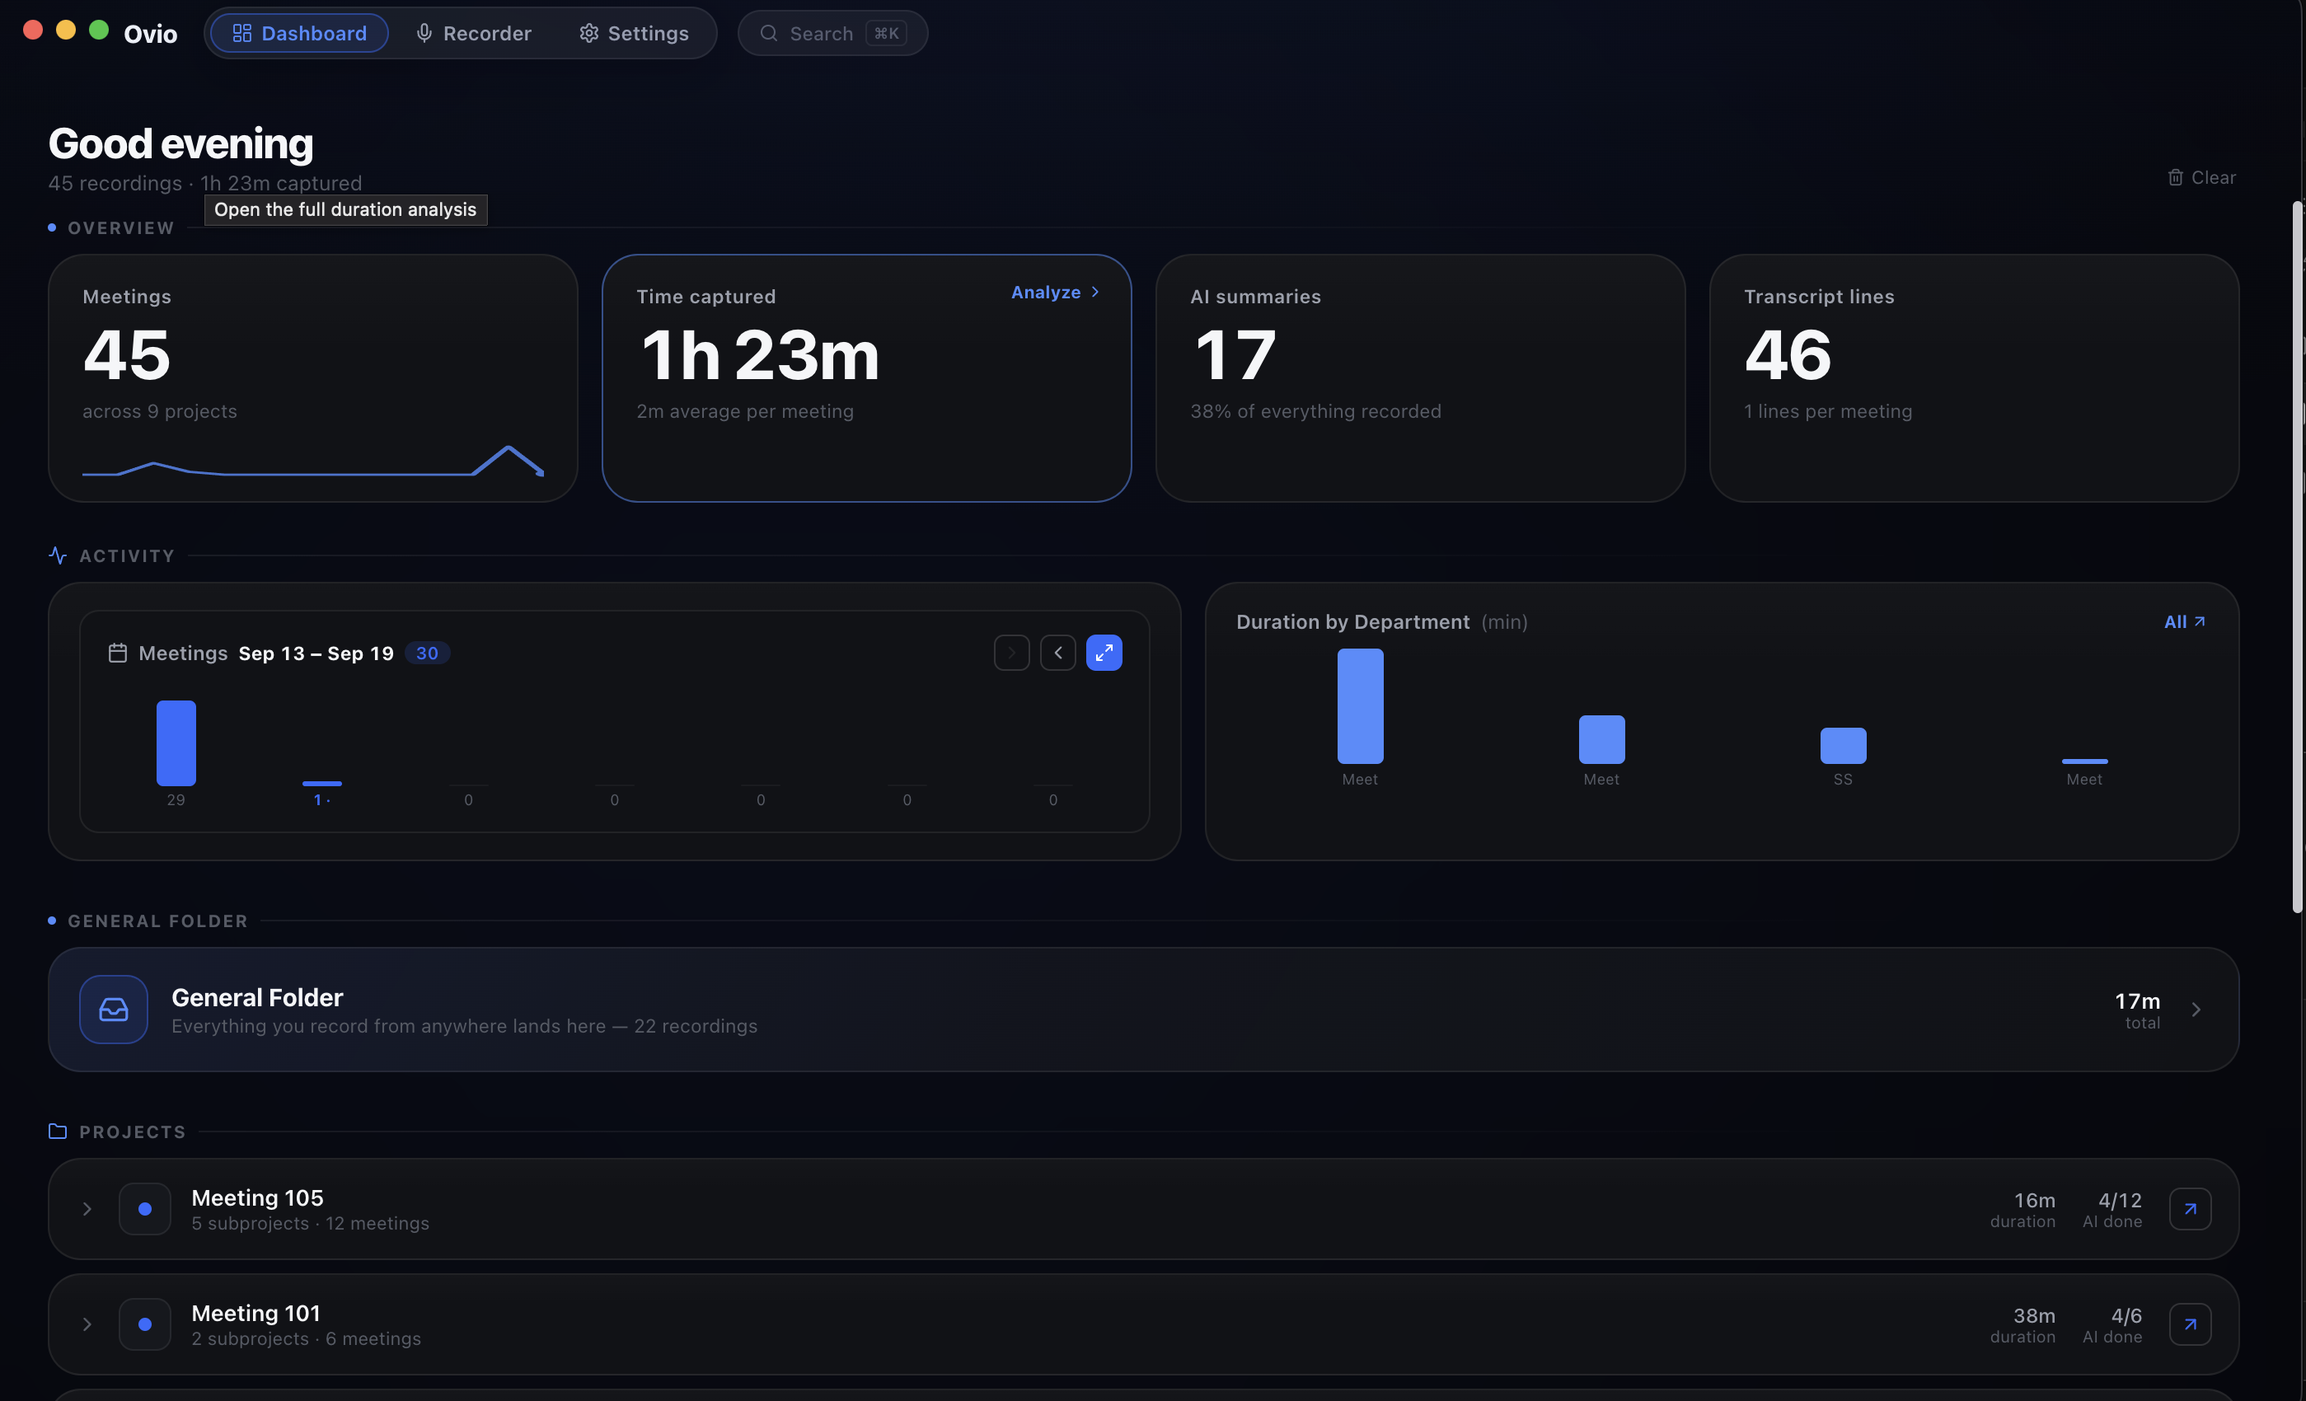
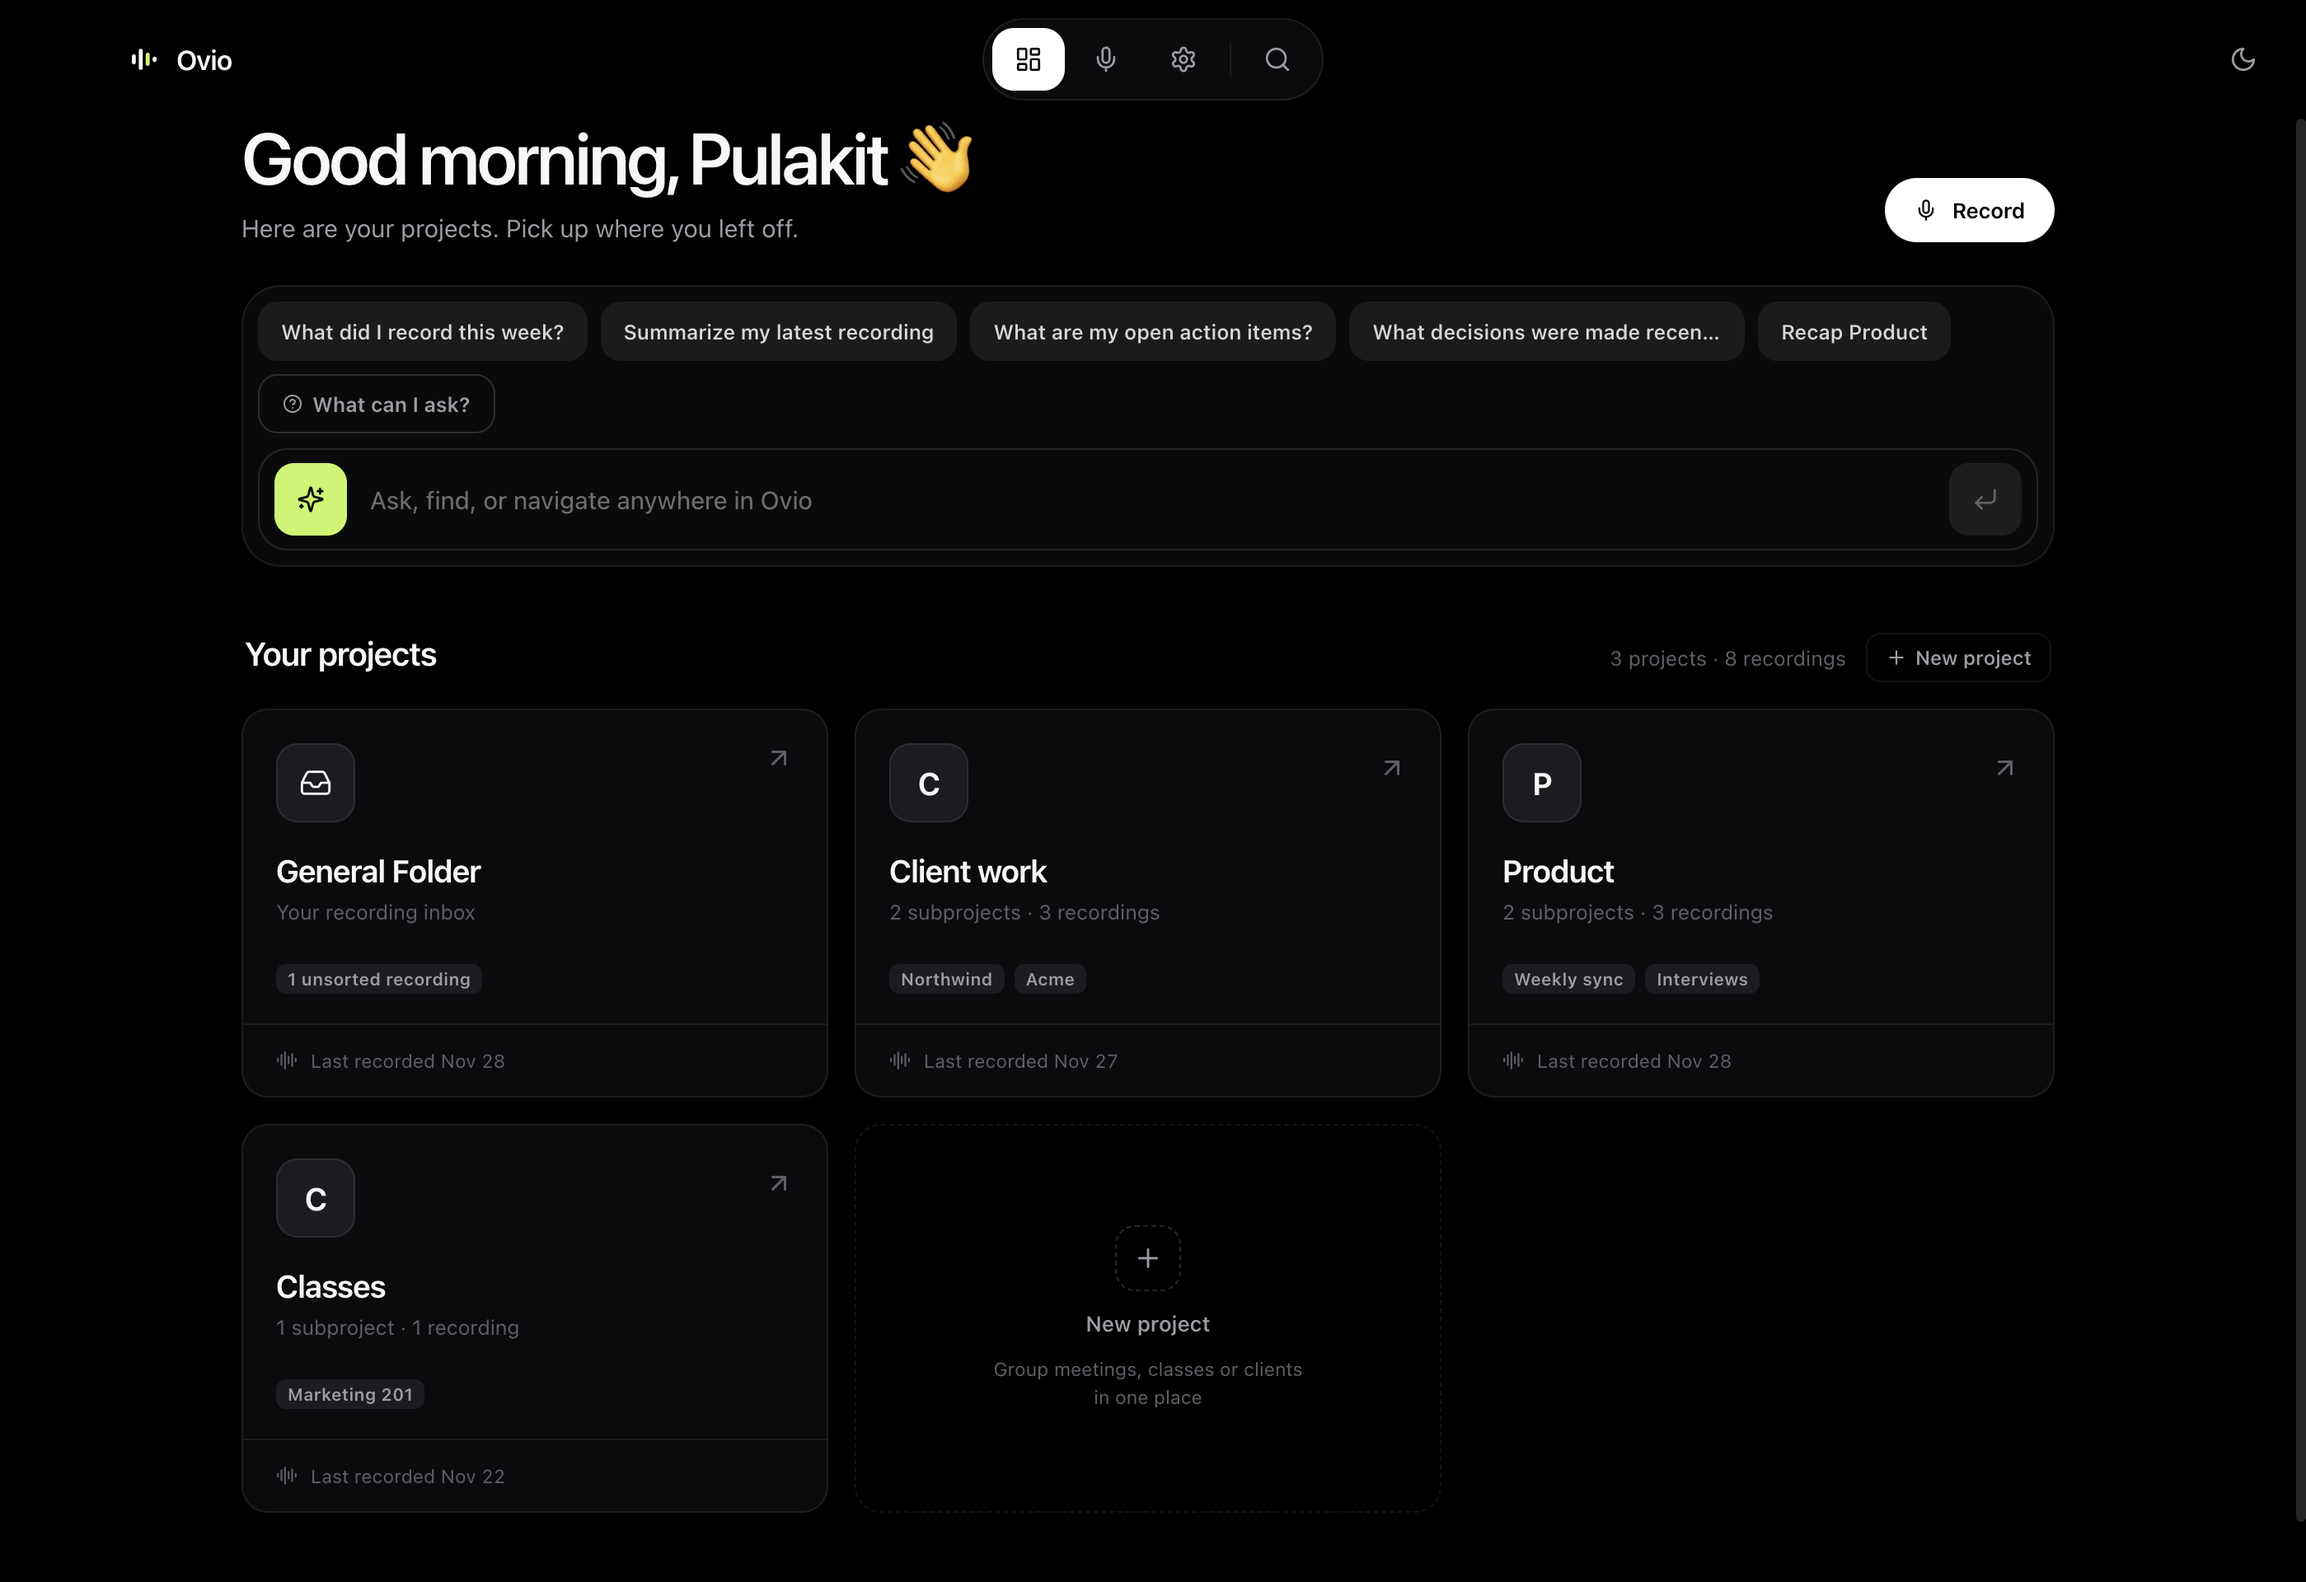
Rewrite the README and use the standard MIT license
The README now explains what Ovio does, how to install on each platform, what runs locally, and which model to pick, with the dashboard, AI notes and vault screenshots. The license file was a numbered variant of MIT, so it is replaced with the canonical text.

diff --git a/README.md b/README.md
@@ -1,46 +1,146 @@
+<div align="center">
+
+<img src="assets/icon.png" width="80" alt="Ovio" />
+
 # Ovio
 
-Local meeting recorder with on-device transcription.
+**Records your meetings, transcribes them, writes the notes.**
 
-## macOS (Homebrew)
+On your own laptop. No account, no cloud.
+
+[![Download](https://img.shields.io/github/v/release/pulakit001/ovio?style=flat&label=download&labelColor=111111&color=C6F55F)](https://github.com/pulakit001/ovio/releases/latest)
+[![Downloads](https://img.shields.io/github/downloads/pulakit001/ovio/total?style=flat&labelColor=111111&color=C6F55F)](https://github.com/pulakit001/ovio/releases)
+[![License](https://img.shields.io/github/license/pulakit001/ovio?style=flat&labelColor=111111&color=C6F55F)](LICENSE)
+
+macOS · Windows · Linux
+
+</div>
+
+![Ovio dashboard](assets/screenshot-dashboard.png)
+
+## Why Ovio
+
+Most note taking apps send your audio to someone else's server. Ovio doesn't. Speech to text and the AI that writes your notes both run on your computer, so a private conversation stays private.
+
+It listens through your microphone, which makes it good for in-person meetings, classes, interviews and voice notes. It does not record calls from Zoom or Meet.
+
+## What makes it different
+
+- **It runs on your laptop.** Transcription and notes happen on your machine, not on a server.
+- **No account.** Download it and use it.
+- **Free and open source.** Read the code, change it, run it yourself.
+- **Works offline.** Once the models are downloaded you can turn off wifi.
+- **Ask your old meetings anything.** Type "what did we decide about pricing?" and Ovio answers from your recordings and shows which ones it used.
+- **Files live next to your recordings.** Every folder has a vault for the PDFs, docs and images that go with that meeting.
+
+![AI notes beside a live recording](assets/screenshot-ai-notes.png)
+
+## Install
+
+Grab the latest build from [Releases](https://github.com/pulakit001/ovio/releases/latest).
+
+### macOS 13 or newer
 
 ```bash
 brew tap pulakit001/ovio https://github.com/pulakit001/ovio
 brew install --cask ovio
 ```
 
-Update: `brew upgrade --cask ovio` · Remove: `brew uninstall --cask ovio`
+Update with `brew upgrade --cask ovio`, remove with `brew uninstall --cask ovio`.
 
-Prefer the DMG? Grab `Ovio-mac-arm64.dmg` (Apple Silicon) or `Ovio-mac-x64.dmg` (Intel) from [Releases](https://github.com/pulakit001/ovio/releases/latest).
+Or take the DMG: `Ovio-mac-arm64.dmg` for Apple Silicon, `Ovio-mac-x64.dmg` for Intel. Open it and drag Ovio into Applications.
 
-Start over without losing recordings:
+Mac builds are not notarized yet, so macOS may say it cannot verify Ovio. If that happens, open System Settings, go to Privacy & Security, then Open Anyway. Homebrew handles this for you.
 
-```bash
-curl -fsSL https://raw.githubusercontent.com/pulakit001/ovio/main/scripts/reset-macos.sh | bash -s -- --install
-```
+### Windows
 
-That removes the app, caches, settings and downloaded models, keeps `files/` and `library/`,
-then reinstalls the latest build. Drop `-s -- --install` to only remove it.
+Download `Ovio-Setup.exe` and run it. SmartScreen will warn that the installer is not code signed yet. Click **More info**, then **Run anyway**.
 
-## Windows
-
-Download `Ovio-Setup.exe` from [Releases](https://github.com/pulakit001/ovio/releases/latest), run it,
-then click **More info → Run anyway** on the SmartScreen prompt.
-
-To skip the prompt entirely: right-click the file → **Properties** → tick **Unblock** → **Apply**.
-(The installer isn't code-signed yet, so Windows warns about it once.)
-
-## Linux
-
-Download from [Releases](https://github.com/pulakit001/ovio/releases/latest), then:
+### Linux
 
 ```bash
-# Debian / Ubuntu
+# Debian and Ubuntu
 curl -fLO https://github.com/pulakit001/ovio/releases/latest/download/Ovio-amd64.deb
 sudo apt install ./Ovio-amd64.deb
 
-# Any distro (needs libfuse2)
+# Any other distro (needs libfuse2)
 curl -fLO https://github.com/pulakit001/ovio/releases/latest/download/Ovio-x86_64.AppImage
 chmod +x Ovio-x86_64.AppImage
 ./Ovio-x86_64.AppImage
 ```
+
+## First run
+
+Ovio downloads its models once. Press the single setup button and it fetches the speech engine and the speech model together.
+
+- You need **Python 3.10 to 3.13**. Ovio builds a private environment from it. On a Mac: `brew install python@3.12`.
+- The speech engine is about 2 to 3 GB, the speech model about 2.5 GB.
+- Then pick a notes model below.
+
+It is a big first download, and you only do it once.
+
+## Use it
+
+1. Click the mic icon in the top bar to open the **Recorder**.
+2. Pick a folder, or create a project. You can also create one from the home screen.
+3. Press record. Your words appear live in the **Transcript** tab.
+4. Open **AI Notes** to read the notes, and hit Regenerate for a new pass.
+5. Press stop. It saves on its own.
+
+Notes export as a PDF, transcripts as text.
+
+The top pill has the four places you need: **Dashboard** for stats, projects and questions across your library, **Recorder** for folders and live capture, **Settings** for theme, models and export, and **Search** for titles, transcripts, notes, projects and vault files. Search is Cmd+K on Mac and Ctrl+K on Windows and Linux.
+
+Recordings live in projects, and projects hold folders. The General Folder is the inbox for quick takes.
+
+![Vault and project files](assets/screenshot-vault.png)
+
+## Privacy
+
+- Audio and transcripts are handled by a program on your own computer. They are never uploaded.
+- Recordings, notes and files stay in the app's data folder.
+- There is no account and no tracking.
+
+Ovio makes only three kinds of network request:
+
+| What | When |
+|---|---|
+| Downloading speech and notes models from Hugging Face | Once, when you choose to download them |
+| Checking GitHub for updates | While the app runs |
+| Sending your transcript to OpenRouter | Only if you pick cloud notes and add your own key |
+
+Use a local notes model and skip the OpenRouter key if you want nothing to leave your laptop.
+
+## The models
+
+Both models run inside the app. No Ollama, no extra setup.
+
+**Speech: NVIDIA Parakeet TDT 0.6B v3** (about 2.5 GB). It writes your transcript live while you talk.
+
+**Notes: Qwen 2.5.** Pick a size in Settings:
+
+| Model | Size | Good for |
+|---|---|---|
+| Qwen 2.5 1.5B | about 1.1 GB | Fastest. Older or low memory laptops |
+| Qwen 2.5 3B | about 2.0 GB | The one to start with |
+| Qwen 2.5 7B | about 4.7 GB | Most detail, for long meetings on a capable laptop |
+
+Want a stronger cloud model? Paste an [OpenRouter](https://openrouter.ai) key in Settings and switch the provider to cloud. Only the transcript text leaves your laptop, never the audio.
+
+## Build it yourself
+
+Node.js 20 or newer.
+
+```bash
+git clone https://github.com/pulakit001/ovio.git
+cd ovio
+npm ci
+npm run electron:dev      # run the app
+npm run electron:build    # build the installers
+```
+
+## License
+
+MIT, copyright Snippetz Labs. See [LICENSE](LICENSE).
+
+If Ovio saves you a meeting, a star helps other people find it.
